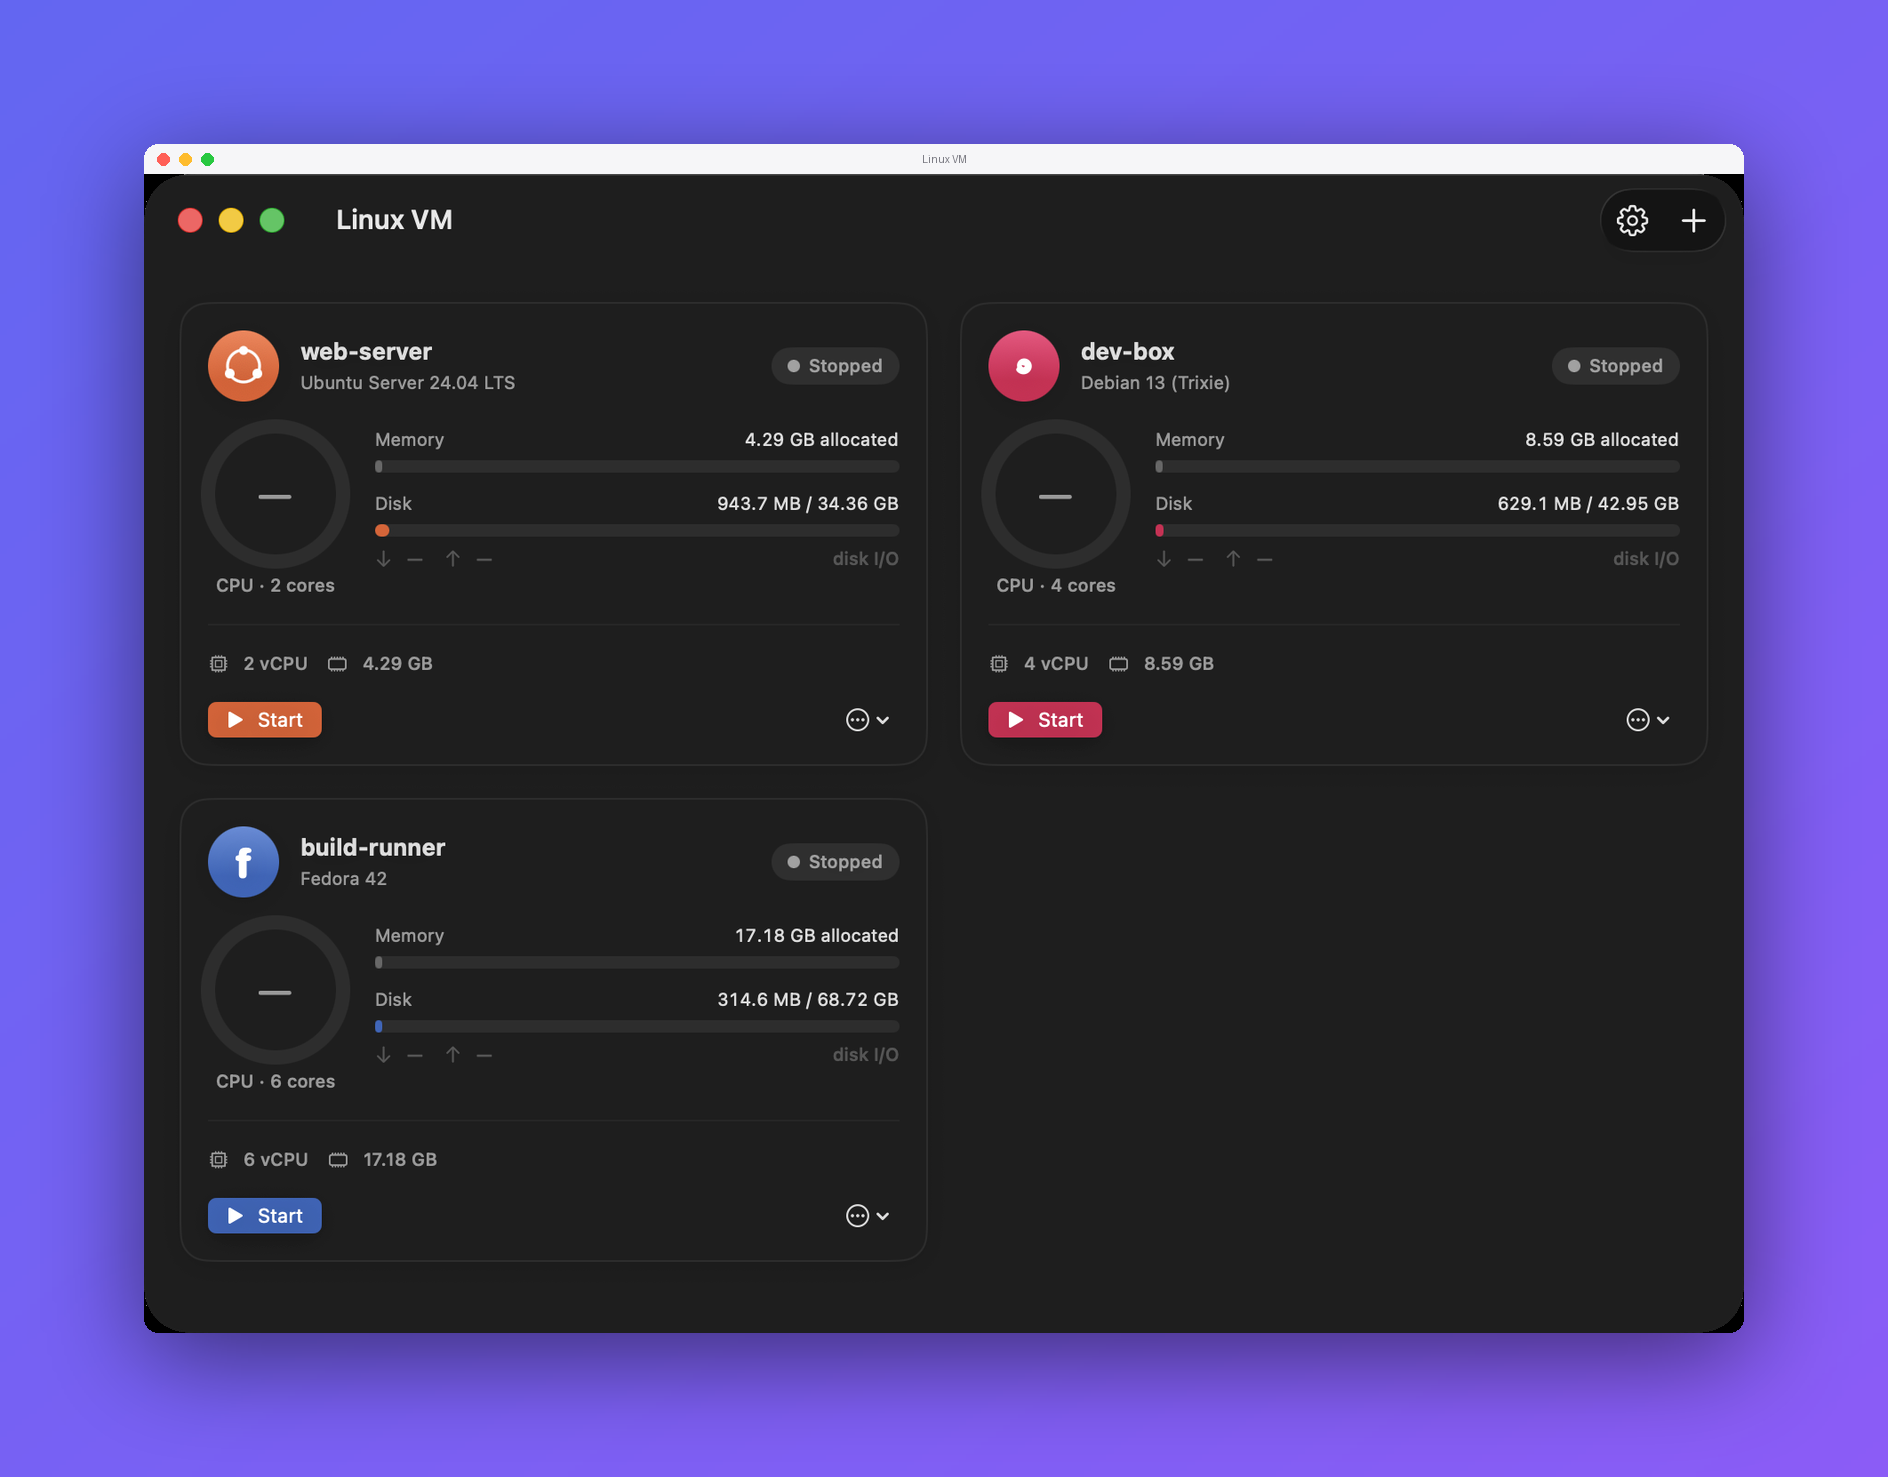
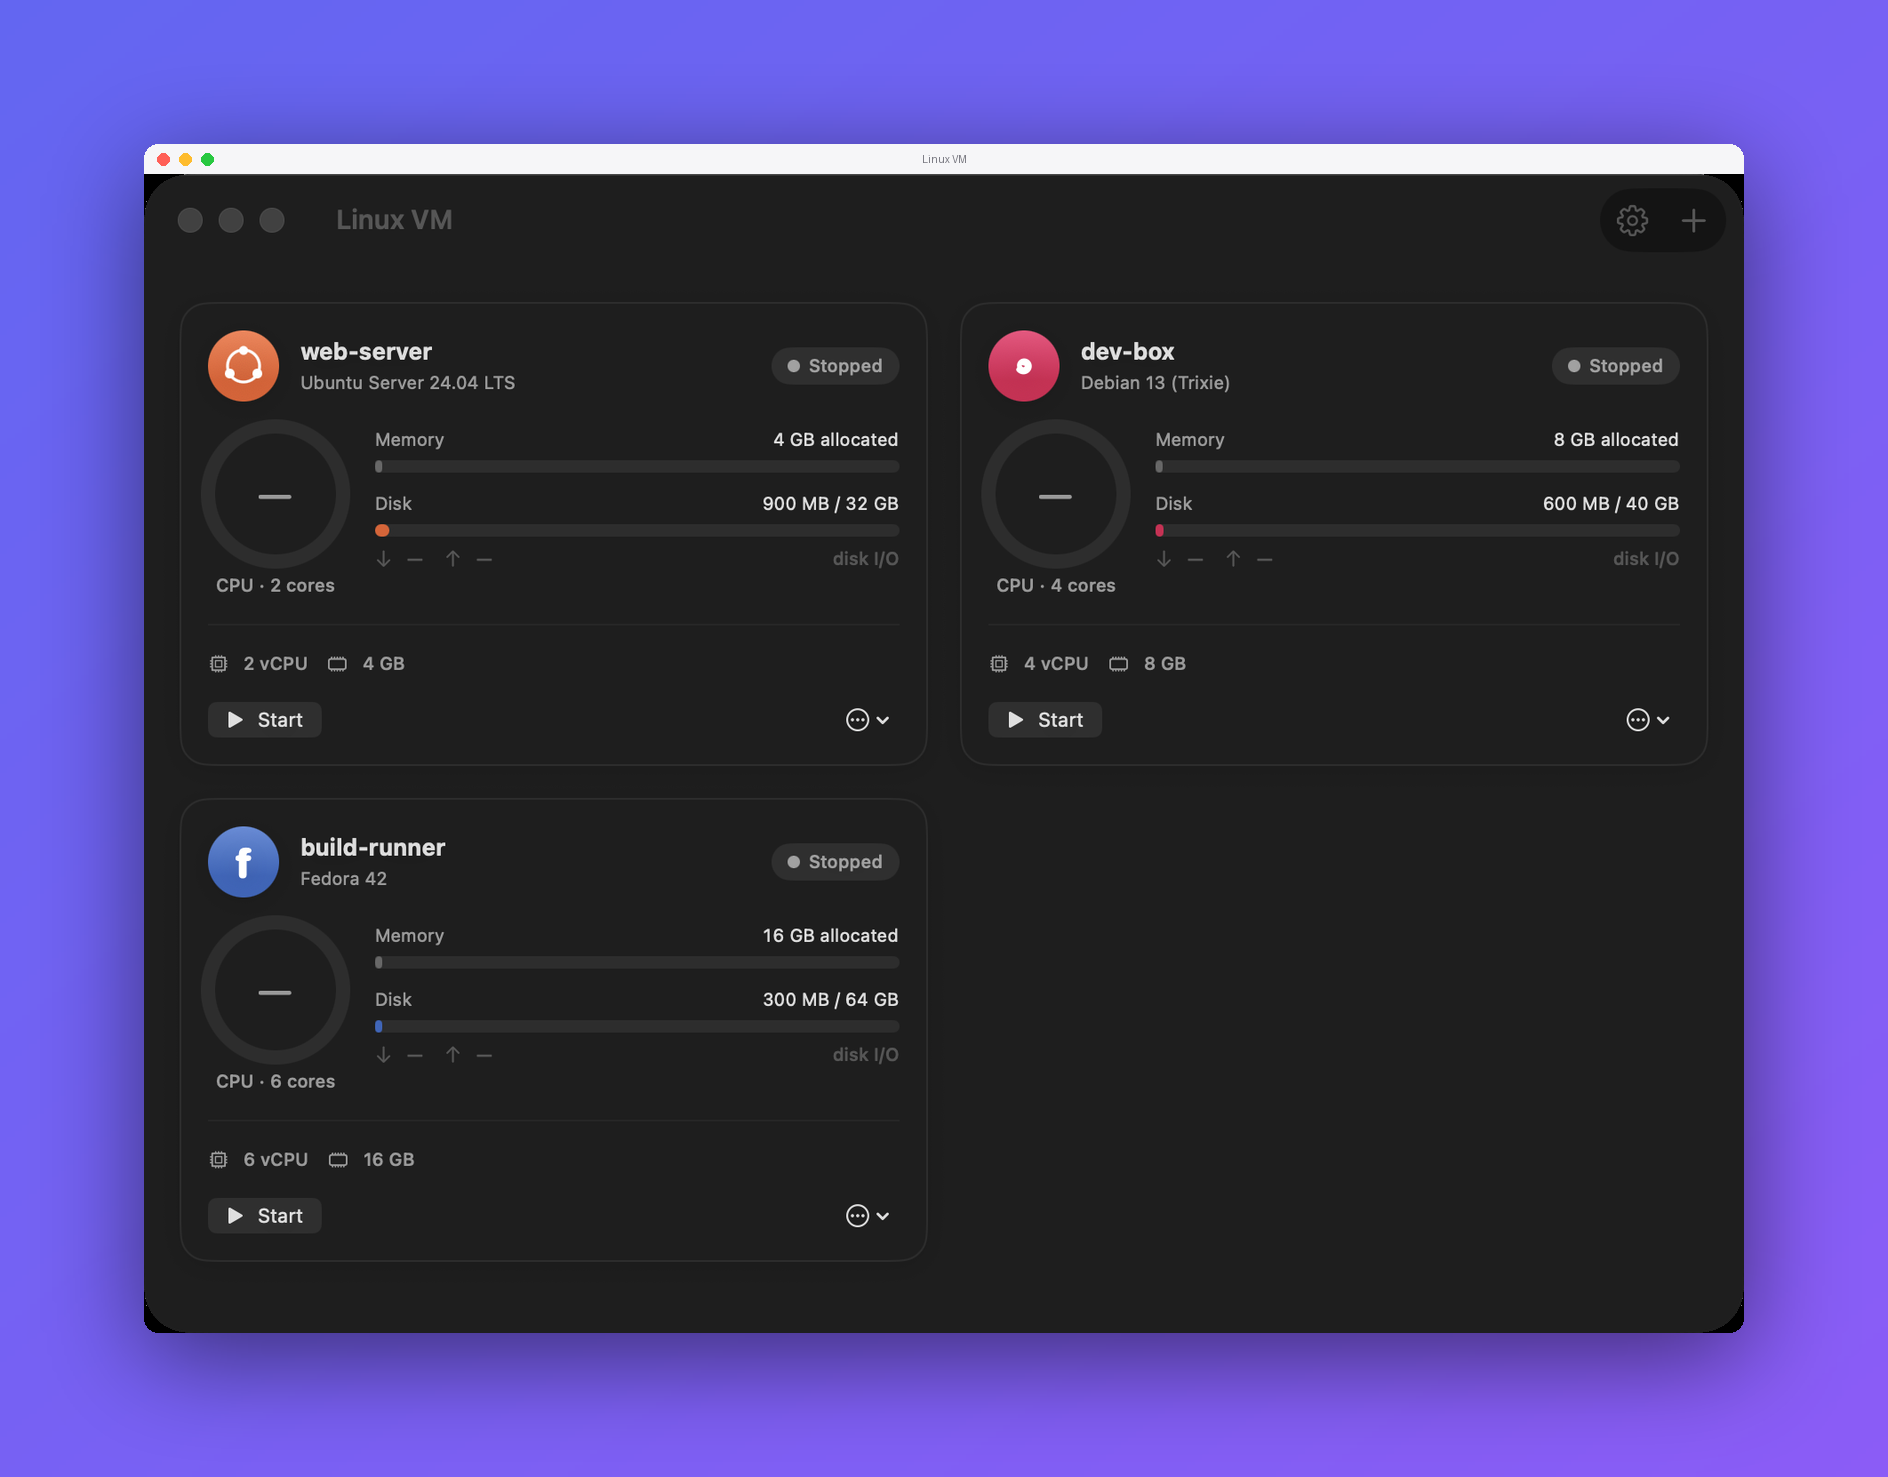
Fix byte units to binary (GiB), refresh mockup, untrack release-notes

diff --git a/Sources/LinuxVM/Services/Support.swift b/Sources/LinuxVM/Services/Support.swift
@@ -36,7 +36,8 @@ enum DiskImage {
 extension ByteCountFormatter {
     static func human(_ bytes: Int64) -> String {
         let f = ByteCountFormatter()
-        f.countStyle = .file
+        // .binary (1024-base) so a 4 GiB allocation reads "4 GB", not "4.29 GB".
+        f.countStyle = .binary
         return f.string(fromByteCount: bytes)
     }
 }